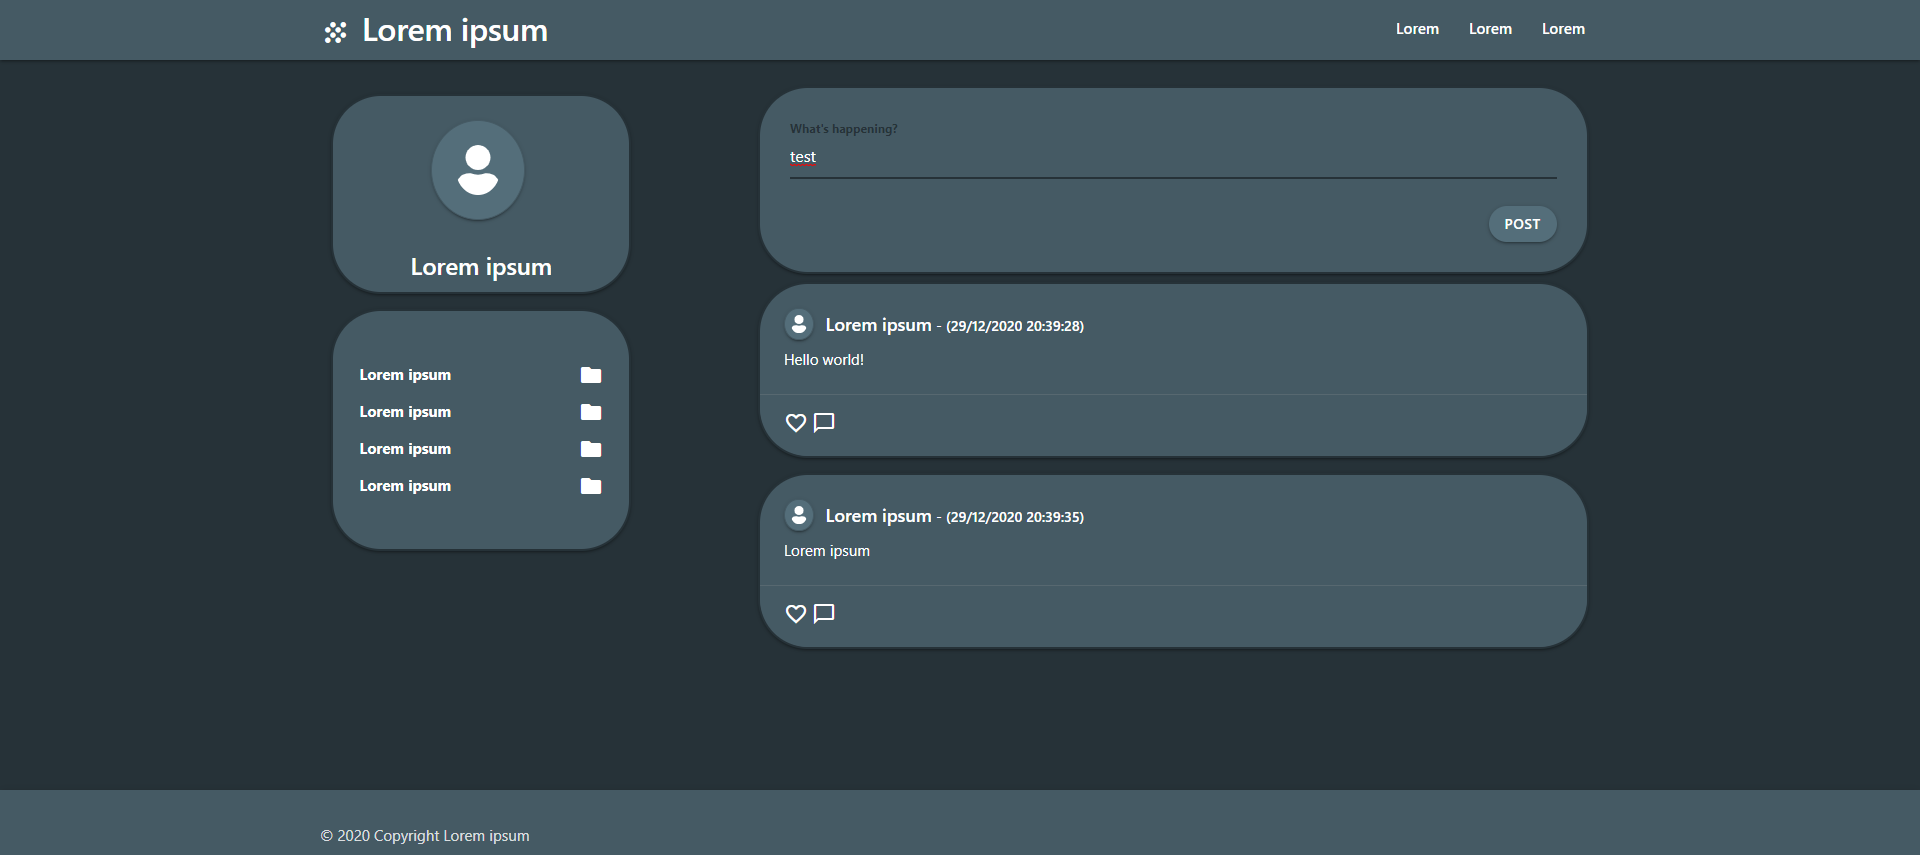
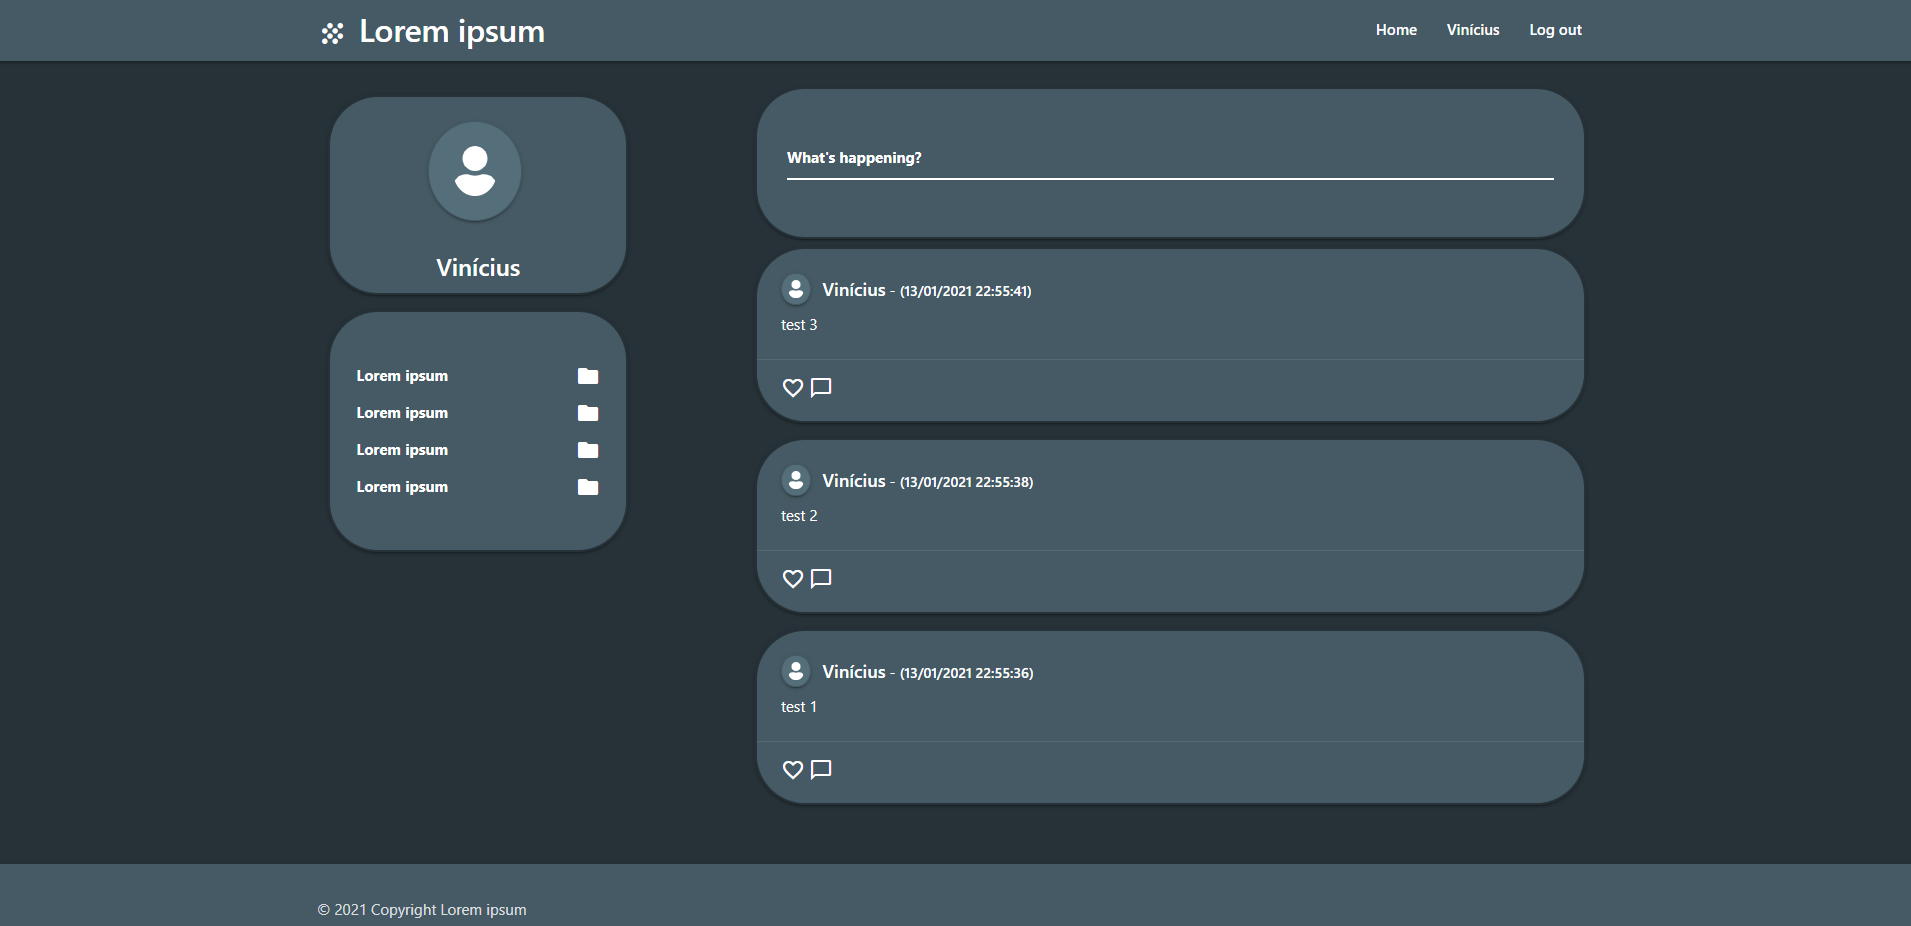
1.1.0v

diff --git a/README.md b/README.md
@@ -6,7 +6,7 @@
   <h3 align="center">single-page-vue</h3>
 
   <p align="center">
-    Single page with vue
+    SPA with vue
     <br />
     <a href="https://github.com/viniciusgugelmin/single-page-vue"><strong>Explore the docs »</strong></a>
     <br />
@@ -37,8 +37,17 @@
 
 
 ## About The Project
-4fun project - single page with vue
+4fun project - SPA with Vue.js and PHP
 
+<ul>
+  <li>Login/register;</li>
+  <li>Poster;</li>
+  <li>Timeline;</li>
+</ul>
+
+<img src="info/demo.png" alt="readme-demo" width="800">
+
+<img src="info/demo1.png" alt="readme-demo" width="800">
 
 ## Roadmap
 

diff --git a/CHANGELOG.md b/CHANGELOG.md
@@ -1,7 +1,7 @@
 # Changelog
 
 ## [1.0.0] - 2020-12-27
-### Adicionado
+### Added
 - NavBar (header)
 - FooterBar (footer)
 - GridVue (main/layout)
@@ -10,3 +10,16 @@
   - Poster
 - CardPhotoVue (user's photo)
 - CardMenuItensVue (user's items)
+
+## [1.1.0] - 2021-01-13
+### Added
+- LoginTemplate (layout)
+- SiteTemplate (layout)
+- Login (page)
+  - LoginForm (form)
+  - RegisterForm (form)
+- Laravel (PHP framework)
+- "Backend to login works"
+- "Session storage user"
+- "User's authentication"
+
